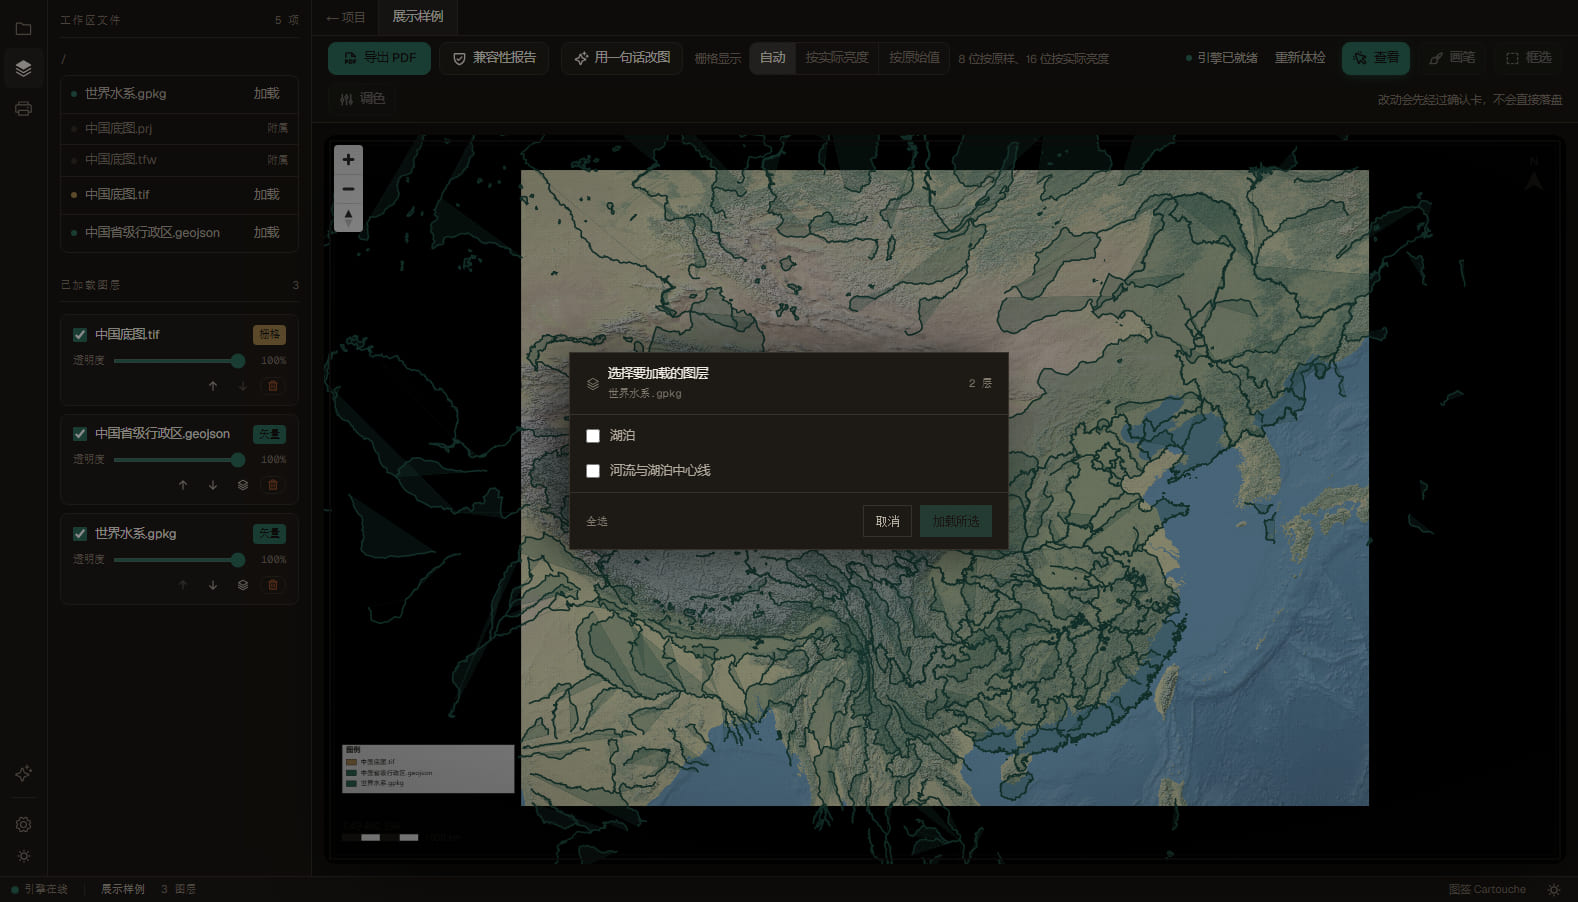
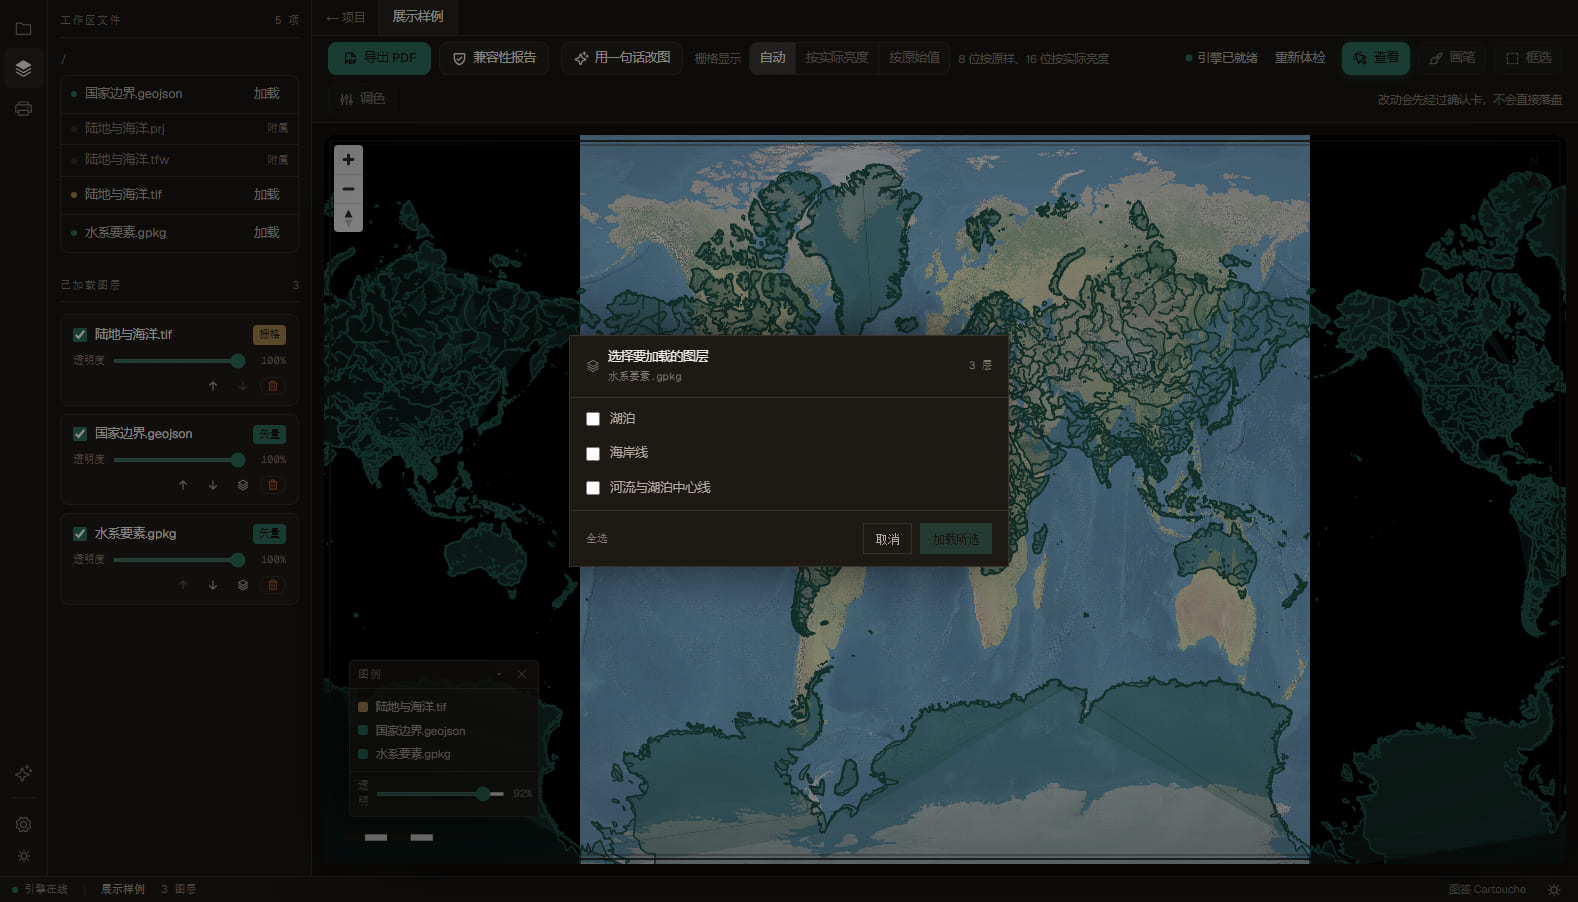
docs: 对外材料改用公开的世界尺度数据（不出国家/行政区信息），补数据来源与许可说明；图例名去扩展名

diff --git a/web/app/page.tsx b/web/app/page.tsx
@@ -414,18 +414,17 @@ export default function Home() {
                   只留一道发丝边 + 投影，让它像一张摊在制图台上的成图。 */}
               <figure data-hero="figure" className="relative">
                 <div className="relative">
-                  {/* 容器 aspect 必须跟成图一致（1756/1319 ≈ 1.331），
+                  {/* 容器 aspect 必须跟成图一致（1242/730 ≈ 1.70)，
                       再用 object-contain 兜底 —— 图面一定完整。
-                      WebP 是给页面读的（509KB），PNG 是原图（4.7MB，只在
-                      不支持 WebP 时才下载）。 */}
-                  <div className="relative aspect-[1756/1319] w-full overflow-hidden bg-surface shadow-product ring-1 ring-line">
+                      WebP 是给页面读的，PNG 是原图（只在不支持 WebP 时才下载）。 */}
+                  <div className="relative aspect-[1242/730] w-full overflow-hidden bg-surface shadow-product ring-1 ring-line">
                     <picture>
-                      <source srcSet="./site/china-sheet.webp" type="image/webp" />
+                      <source srcSet="./site/world-sheet.webp" type="image/webp" />
                       <img
-                        src="./site/china-sheet.png"
-                        alt="图签自己出的图面：中国省级行政区与主要河流图，带图例、比例尺、指北针与标题栏"
-                        width={1756}
-                        height={1319}
+                        src="./site/world-sheet.png"
+                        alt="图签自己出的图面：世界陆地与水系，带图例、比例尺、指北针与标题栏"
+                        width={1242}
+                        height={730}
                         loading="eager"
                         decoding="async"
                         fetchPriority="high"
@@ -457,7 +456,7 @@ export default function Home() {
                   data-hero="caption"
                   className="reveal mt-5 font-mono text-body-sm text-ink-3"
                 >
-                  示例：中国省级行政区与主要河流图 · 图签自己出的图面
+                  示例：世界陆地与水系 · 图签自己出的图面
                 </figcaption>
               </figure>
             </div>

diff --git a/src/engine/export/vector-geojson.ts b/src/engine/export/vector-geojson.ts
@@ -6,7 +6,7 @@
  *
  * 多图层容器（GeoPackage / KML / KMZ）：GeoJSON 输出驱动是**单图层**的，
  * 直接整文件转换会报 "Layer … cannot be created"（2026-11-15 实测：
- * 中国水系 kmz、双图层 gpkg 都死在这）。所以这里先探图层清单，
+ * 多层水系 kmz、双图层 gpkg 都死在这）。所以这里先探图层清单，
  * **逐层转换再合并**成一个 FeatureCollection —— 前端拿到的仍是"一个文件 = 一层地图"。
  */
 import { join } from 'node:path';
@@ -133,13 +133,13 @@ export async function vectorToGeoJson(
    *   - **≤ MERGE_MAX 层**：全部合并成一个 FeatureCollection ——
    *     双图层 gpkg 这种"两张图叠一张底图"就是用户想要的；
    *   - **> MERGE_MAX 层**：只加载**第一个有要素的图层**，其余说清楚。
-   *     KML 文件夹汤（实测有 3450 层的中国水系 kmz）合并等于数据爆炸；
+   *     KML 文件夹汤（实测有 3450 层的多层水系 kmz）合并等于数据爆炸；
    *     图层选择器是将来 UI 的事，引擎先把行为钉住。
    */
   const MERGE_MAX = 20;
 
   // ⚠ 多图层不能逐层从原始容器转：KML/KMZ 这类**每次打开都要解析整个文件**，
-  //    N 个图层 = O(N×全文件) 解析 —— 2026-11-15 实测：中国水系 kmz 逐层转换
+  //    N 个图层 = O(N×全文件) 解析 —— 2026-11-15 实测：多层水系 kmz 逐层转换
   //    跑了 20 分钟都没完。改成两阶段：
   //    阶段一：一次 ogr2ogr 把全部图层落进中间 GPKG（多图层容器，1 次解析）；
   //    阶段二：从 GPKG 逐层转 GeoJSON 再合并 —— SQLite 直接读，每层都便宜。

diff --git a/src/engine/health/geometry.ts b/src/engine/health/geometry.ts
@@ -369,7 +369,7 @@ export function checkRingIntegrity(features: readonly ScannedFeature[]): Finding
 /**
  * 尖角（spike）的判据里，尖刺两条边之和相对环上「典型边长」的比例上限。
  *
- * 为什么光看角度不够 —— 实测公开样本 GADM 中国省级（37 个面、2 万多个顶点）：
+ * 为什么光看角度不够 —— 实测公开样本 GADM 一级行政区（37 个面、2 万多个顶点）：
  *   - 有 99 个环带着小于 12° 的角，其中绝大多数是**整个环就是一根针**的狭长小岛
  *     （4 个顶点、面积几百平米，边长占周长 60%~99%）；
  *   - 另有若干是海岸线上的**局部小尖刺**（边长只占周长的万分之几）。

diff --git a/src/engine/health/topology.ts b/src/engine/health/topology.ts
@@ -54,7 +54,7 @@ const OVERLAP_MAX_PAIRS = 200;
  * 为什么不能只看「面积 > 0」：两个相邻的面共享一条边界时，
  * 边界上的顶点不共点，交集就会留下一条极细的缝（sliver），
  * 面积是几平米甚至更小，但相对整片面（几十平方公里）根本不值一提。
- * 实测公开样本（GADM 中国省级，37 个面）里，73 对相邻面都因为这种缝被判成重叠 ——
+ * 实测公开样本（GADM 一级行政区，37 个面）里，73 对相邻面都因为这种缝被判成重叠 ——
  * 那不是数据问题，是判据太粗。
  *
  * 取 0.1%：真正的重复数字化 / 数据错误造成的重叠，比例都在百分之几以上；

diff --git a/web/app/motion/ScrollChoreography.tsx b/web/app/motion/ScrollChoreography.tsx
@@ -97,7 +97,7 @@ export function ScrollChoreography() {
          **B0（成品图面）没有入场动画**：第一帧就是一张完整可看的图。
          旧实现把主图放在 t=0.9 才淡入（duration 0.9），那一拍已经删掉——
          「首帧即高潮」，等 0.9 秒才出图等于开场什么都没发生。
-         B6 原来画的是外层 CSS 图框；换成图签自己出的中国图面后，
+         B6 原来画的是外层 CSS 图框；换成图签自己出的图面后，
          图面自带图框（工具画的），再套一层会重影 —— 改成确认卡落下。 */
       const hero = gsap.timeline({ defaults: { ease: 'power3.out' } });
       hero

diff --git a/web/app/canvas/workbench/LayerPickerModal.tsx b/web/app/canvas/workbench/LayerPickerModal.tsx
@@ -4,7 +4,7 @@
  * 图层选择器：多图层容器（GPKG / KML / KMZ）里的图层清单，勾选加载。
  *
  * 为什么要有它：>20 层的"文件夹汤"引擎默认只装第一个有内容的图层（3450 层的
- * 中国水系 kmz 实测教训：全合并等于数据爆炸）。这一屏把"其余图层"交还给用户 ——
+ * 多层水系 kmz 实测教训：全合并等于数据爆炸）。这一屏把"其余图层"交还给用户 ——
  * 勾哪几个装哪几个，勾了文件里不存在的名字引擎会整体报错而不是静默跳过。
  *
  * 交互：Esc / 点遮罩关闭；全选 / 清空；至少勾一项才能"加载所选"。

diff --git a/src/engine/health/checks.ts b/src/engine/health/checks.ts
@@ -93,7 +93,7 @@ const DEFAULT_MAX_SCAN = 5000;
  * 尖角阈值（度）。
  *
  * 取 10° 是量出来的，不是拍的：
- *   - 实测公开样本 GADM 中国省级（37 个面、2 万多个顶点）里，
+ *   - 实测公开样本 GADM 一级行政区（37 个面、2 万多个顶点）里，
  *     最锐的**合法**拐角约 19°，没有任何一个顶点小于 15°；
  *   - 而数字化尖刺（边界冲出去又折回来）通常在 5° 以下。
  * 所以 10° 能把「真缺陷」和「合法的窄角」分开。

diff --git a/web/app/motion/Deliverables.tsx b/web/app/motion/Deliverables.tsx
@@ -24,7 +24,7 @@
  * 1. **不裁边**：图要什么样就什么样，看得见图面被切掉多少；
  * 2. **不加滤镜**：报告里的 ⚠ 与 ❌ 原样保留——「敢说自己不行」是卖点；
  * 3. **标明示例**：export-pdf.png 的内容是世界图（Natural Earth），
- *    不是中国图，卡片上必须写清楚，不能拿世界图冒充中国图。
+ *    不是成图，卡片上必须写清楚，不能拿世界图冒充该区域图。
  */
 import { useRef } from 'react';
 import gsap from 'gsap';

diff --git a/README.md b/README.md
@@ -38,8 +38,18 @@
 
 ![出图工作台](assets/canvas.jpg)
 
-| 键 | 干什么 |
+**这一屏能看到的几种活**（下面每张都是真实运行的样子，不是示意图）：
+
+| 场景 | 什么样 |
 |---|---|
+| 栅格底图叠矢量图层 | 上面的工作台截图：世界陆地栅格 + 一级行政区边界 + 水系要素 |
+| 多图层容器 | 勾选容器里的图层再加载，装了什么、跳过什么都写在界面上 |
+| 图例面板 | 独立的一层，拖得动、调得淡、折得起来 |
+| 兼容性自检 | 选中图层后逐项体检，缺什么写什么 |
+| 首次运行 | 打开就是工作台，没有项目、没有记录 |
+
+| 键 | 干什么 |
+|---|---|---|
 | `Ctrl+P` | 快速打开：最近的项目、当前项目的文件，一起搜 |
 | `Ctrl+J` | 底部面板：属性表、改图记录 |
 | `Ctrl+,` | 设置：主题、加载动画、减弱动效、引擎地址 |
@@ -51,6 +61,11 @@
 装了什么、跳过了什么，界面上都写着。
 
 ![图层选择器](assets/layers-picker.jpg)
+
+**图例是独立的一层** —— 它不画在你要编辑的那张图上，而是浮在画布之上：
+拖标题条挪位置、拉滑杆调透明度、点 ▾ 折叠、点 ✕ 收起。位置与透明度记在这台机器上。
+
+![图例面板](assets/legend-panel.jpg)
 
 **改之前先自检** —— 文件格式、坐标系、几何有效性、伴随文件是否齐全、编码、拓扑、变化检测。
 **缺什么、会出什么问题、怎么改**，逐条写清。
@@ -168,6 +183,24 @@ powershell -NoProfile -ExecutionPolicy Bypass -File scripts\run-engine.ps1
 - **设置分两处**——「加载动画」与「减弱动效」是**机器级**偏好，存在本机引擎（`%LOCALAPPDATA%\cartouche\settings.json`），换浏览器、换访问地址都跟着走；主题存在浏览器里（首帧就要定，只能存本地）。都不上传。
 - **API Key 不落盘不回显**——粘贴的 key 只在引擎内存里，重启即失效；本页没有任何接口会把它返回给浏览器。可选的「记住这台电脑」用 Windows DPAPI 加密后存在系统目录（仓库之外）。
 - **无账号无云端**——不需要注册、不需要登录、不连任何第三方服务，功能全部离线运行（AI 模型调用除外，那需要你自己配 key）。
+
+## 数据来源与许可
+
+**仓库里不含任何地理数据文件。** 文档与官网里的配图，用的是下面这份公开数据；
+测试用的数据全部是运行时生成的合成数据。
+
+| 用途 | 来源 | 许可 / 可用性 | 怎么拿到 |
+|---|---|---|---|
+| **对外配图**（本 README、官网首屏、社交分享图） | **Natural Earth** 10m/50m（公共领域） | **公共领域**：可自由使用、再分发与商用，无需署名 | 已随仓库入库（`assets/`、`web/public/site/`），只有压缩后的图面图 |
+| 单元测试夹具 | **现场生成的合成数据**（正弦线折线、多层 GPKG 等） | 本项目自有，随代码走 | 测试运行时自己造，仓库里只留生成器 |
+| 公开样本（`npm run samples`，供开发者下载试用） | Natural Earth、GADM 4.1、DataV.GeoAtlas 等 | 各有独立条款：Natural Earth 为公共领域；**GADM 允许自由使用（非商业），需署名**；DataV 为公开数据接口 | 运行时下载到 `samples/`（已 gitignore，**不入库**） |
+
+> 也就是说：**随仓库分发的一切，只有公共领域数据**。
+> 需要 GADM / DataV 那几份样本的，自己 `npm run samples` 拉 —— 许可条款以数据源官网为准，
+> 第三方组件与数据的完整清单见 [NOTICE](NOTICE)。
+
+配图里刻意**不出现特定国家或行政区划的地理信息**：示例用的是世界尺度的陆地、水系与
+一级行政区边界，画面中不指向任何具体国家的辖区。
 
 ## 技术栈
 
